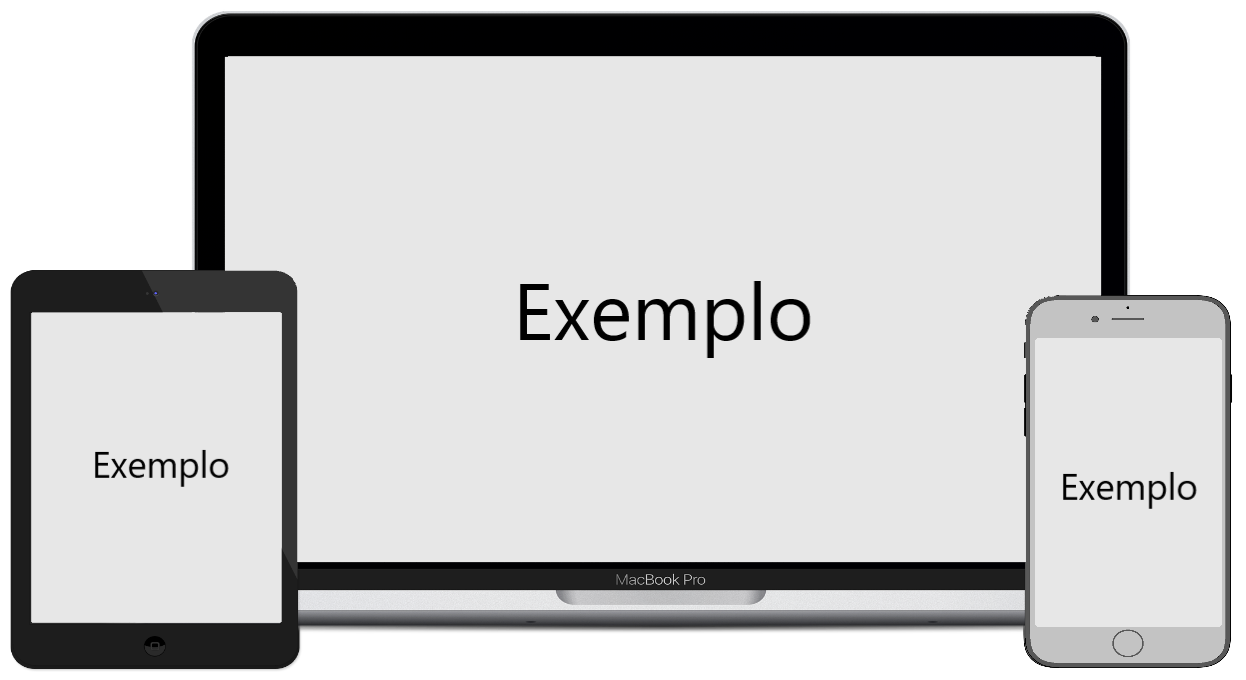
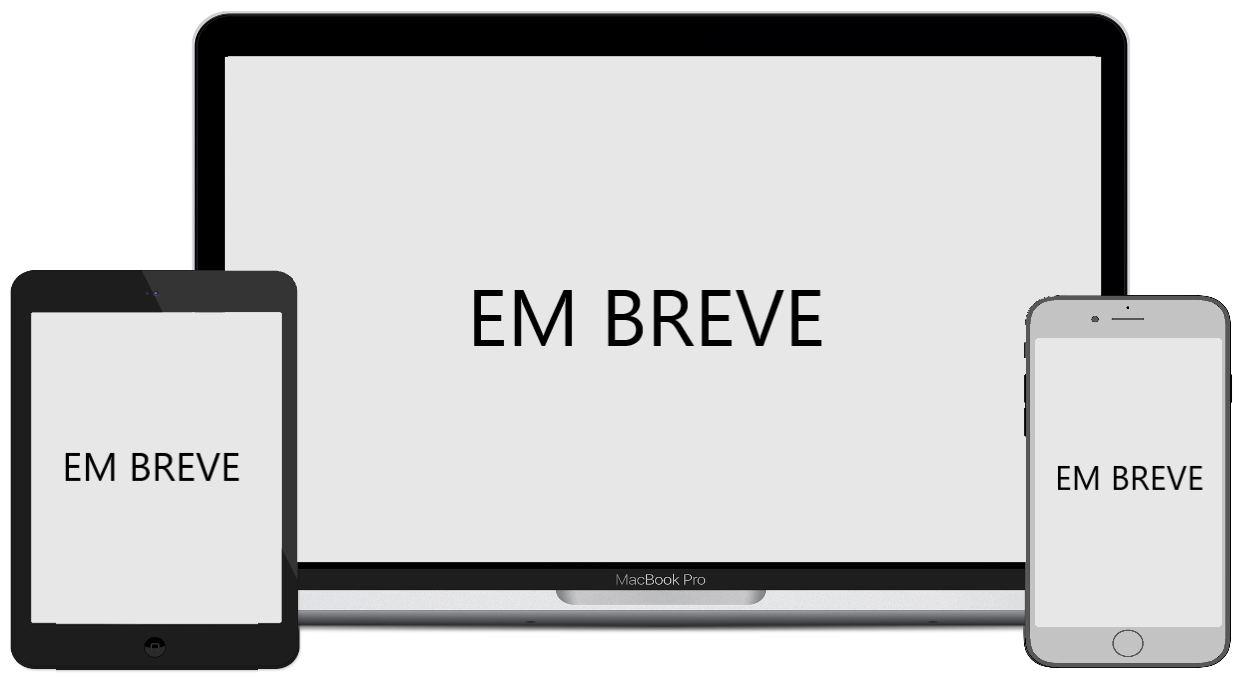
Adicionar projetos aos cards de projeto

diff --git a/index.html b/index.html
@@ -414,9 +414,10 @@
               <div class="descricao_projeto">
                 <p>
                   Este é meu porfólio profissional, onde disponibilizo meus
-                  projetos e algumas informações pessoais. Estou atuando no seu
-                  desenvolvimento utilizando, até então, tecnologias como HTML,
-                  CSS, Javascript, e Figma para prototipá-lo.
+                  projetos e algumas informações pessoais. Para desenvolvê-lo,
+                  utilizei HTML, pré-processador Sass, e Javascript. No momento,
+                  estou refatorando-o em React, a fim de tornar a experiência da
+                  aplicação ainda melhor. Estará disponível em breve. 😉
                 </p>
               </div>
 
@@ -430,7 +431,7 @@
                 </a>
 
                 <a
-                  href="https://meu-portfolio-gamma.vercel.app/"
+                  href="https://carol-frazao.vercel.app"
                   class="acessarProjeto"
                   target="_blank"
                 >
@@ -450,10 +451,10 @@
 
               <div class="descricao_projeto">
                 <p>
-                  O DH Games propõe um e-commerce de jogos. Neste projeto
+                  O DH Games é uma proposta de e-commerce. Neste projeto
                   desenvolvi o front e o backend utilizando as tecnologias EJS,
-                  CSS, Javascript, Node.js, e banco de dados mySQL para a
-                  listagem de produtos e cadastro de usuários, além de algumas
+                  CSS, Javascript, Node.js, e banco de dados com mySQL (para a
+                  listagem de produtos e cadastro de usuários), além de algumas
                   bibliotecas bem legais.
                 </p>
               </div>
@@ -478,6 +479,88 @@
 
             <div class="card3 card_projeto">
               <div class="titulo_projeto">
+                <span> Pokédex </span>
+              </div>
+
+              <div class="imagem_projeto">
+                <img
+                  src="assets/img/Projetos/pokedex_devices.png"
+                  alt="Pokedex"
+                />
+              </div>
+
+              <div class="descricao_projeto">
+                <p>
+                  A pokédex é uma enciclopédia virtual portátil que os
+                  treinadores de Pokémon transportam para registrar espécies que
+                  são encontradas durante a sua viagem como treinadores. Este
+                  projeto foi desenvolvido para fins de estudo, onde utilizei
+                  HTML, CSS, Javascript, e consumi a PokéAPI (interface RESTful
+                  API com dados relacionados a Pokémon).
+                </p>
+              </div>
+
+              <div class="links_projeto">
+                <a
+                  href="https://github.com/carol-frazao/pokedex"
+                  class="repositorio"
+                  target="_blank"
+                >
+                  Repositório
+                </a>
+
+                <a
+                  href="https://carol-frazao.github.io/pokedex/"
+                  class="acessarProjeto"
+                  target="_blank"
+                >
+                  Aplicação
+                </a>
+              </div>
+            </div>
+
+            <div class="card4 card_projeto">
+              <div class="titulo_projeto">
+                <span> Calculadora </span>
+              </div>
+
+              <div class="imagem_projeto">
+                <img
+                  src="assets/img/Projetos/calculadora_devices.png"
+                  alt="Calculadora"
+                />
+              </div>
+
+              <div class="descricao_projeto">
+                <p>
+                  Calculadora simples desenvolvida em HTML, CSS e Javascript
+                  puros. Ainda estou desenvolvendo a lógica para algumas
+                  funcionalidades, entretanto, as operações básicas funcionam
+                  perfeitamente. 😀
+                </p>
+              </div>
+
+              <div class="links_projeto">
+                <a
+                  href="https://github.com/carol-frazao/calculator"
+                  class="repositorio"
+                  target="_blank"
+                >
+                  Repositório
+                </a>
+
+                <a
+                  href="https://carol-frazao.github.io/calculator/"
+                  class="acessarProjeto"
+                  target="_blank"
+                >
+                  Aplicação
+                </a>
+              </div>
+            </div>
+
+            <div class="card5 card_projeto">
+              <div class="titulo_projeto">
                 <span> Clone Origamid </span>
               </div>
 
@@ -490,10 +573,11 @@
 
               <div class="descricao_projeto">
                 <p>
-                  Clone da plataforma Origamid para fins de estudo. Comecei a
-                  desenvolver este projeto quando estava estudando HTML e CSS,
-                  com o objetivo de reproduzir a página index da plataforma.
-                  Pretendo finalizar em breve, e torná-lo responsivo.
+                  Este é um clone da plataforma Origamid para fins de estudo.
+                  Comecei a desenvolver este projeto quando estava estudando
+                  HTML e CSS, com o objetivo de reproduzir estrutura e estilos
+                  da página inicial, porém, inacabado. Pretendo continuar seu
+                  desenvolvimento e trabalhar na sua responsividade, em breve.
                 </p>
               </div>
 
@@ -511,66 +595,6 @@
                   class="acessarProjeto"
                   target="_blank"
                 >
-                  Aplicação
-                </a>
-              </div>
-            </div>
-
-            <div class="card4 card_projeto">
-              <div class="titulo_projeto">
-                <span> Título do projeto </span>
-              </div>
-
-              <div class="imagem_projeto">
-                <img
-                  src="assets/img/Projetos/modelo/devices_modelo.png"
-                  alt=""
-                />
-              </div>
-
-              <div class="descricao_projeto">
-                <p>
-                  Lorem, ipsum dolor sit amet consectetur adipisicing elit.
-                  Quasi consectetur minima facilis delectus adipisci pariatur
-                  veniam laboriosam voluptates dicta magnam animi quidem natus
-                  veritatis sequi illo cupiditate, quas quam molestias?
-                </p>
-              </div>
-
-              <div class="links_projeto">
-                <a href="" class="repositorio" target="_blank"> Repositório </a>
-
-                <a href="" class="acessarProjeto" target="_blank">
-                  Aplicação
-                </a>
-              </div>
-            </div>
-
-            <div class="card5 card_projeto">
-              <div class="titulo_projeto">
-                <span> Título do projeto </span>
-              </div>
-
-              <div class="imagem_projeto">
-                <img
-                  src="assets/img/Projetos/modelo/devices_modelo.png"
-                  alt=""
-                />
-              </div>
-
-              <div class="descricao_projeto">
-                <p>
-                  Lorem, ipsum dolor sit amet consectetur adipisicing elit.
-                  Quasi consectetur minima facilis delectus adipisci pariatur
-                  veniam laboriosam voluptates dicta magnam animi quidem natus
-                  veritatis sequi illo cupiditate, quas quam molestias?
-                </p>
-              </div>
-
-              <div class="links_projeto">
-                <a href="" class="repositorio" target="_blank"> Repositório </a>
-
-                <a href="" class="acessarProjeto" target="_blank">
                   Aplicação
                 </a>
               </div>
@@ -598,11 +622,9 @@
               </div>
 
               <div class="links_projeto">
-                <a href="" class="repositorio" target="_blank"> Repositório </a>
+                <a class="repositorio" target="_blank"> Repositório </a>
 
-                <a href="" class="acessarProjeto" target="_blank">
-                  Aplicação
-                </a>
+                <a class="acessarProjeto" target="_blank"> Aplicação </a>
               </div>
             </div>
           </div>

diff --git a/assets/styles/css/main.css b/assets/styles/css/main.css
@@ -866,7 +866,7 @@ section.skills {
   height: 80vh;
 }
 section.skills:target {
-  scroll-margin-top: 4rem;
+  scroll-margin-top: 5rem;
 }
 section.skills .skillsContainer {
   display: flex;

diff --git a/assets/styles/scss/_skills.scss b/assets/styles/scss/_skills.scss
@@ -7,7 +7,7 @@ section.skills {
     height: 80vh;
 
     &:target {
-        scroll-margin-top: 4rem;
+        scroll-margin-top: 5rem;
     }
 
     .skillsContainer {

diff --git a/README.md b/README.md
@@ -4,6 +4,6 @@ Este é meu portfólio profissional.
 Nele estarão disponíveis meus projetos desenvolvidos, algumas informações sobre mim, skills, além formas de contato.
 Tecnologias utilizadas: HTML, CSS com Sass e Javascript.
 
-Obs: Estou trabalhando na responsividade da aplicação, portanto a visualização de algumas sessões pode estar indisponível.
+Obs: Estou trabalhando na responsividade da aplicação, portanto, algumas sessões da página podem estar indisponíveis para visualização.
 
 Acesse em: https://carol-frazao.vercel.app/
